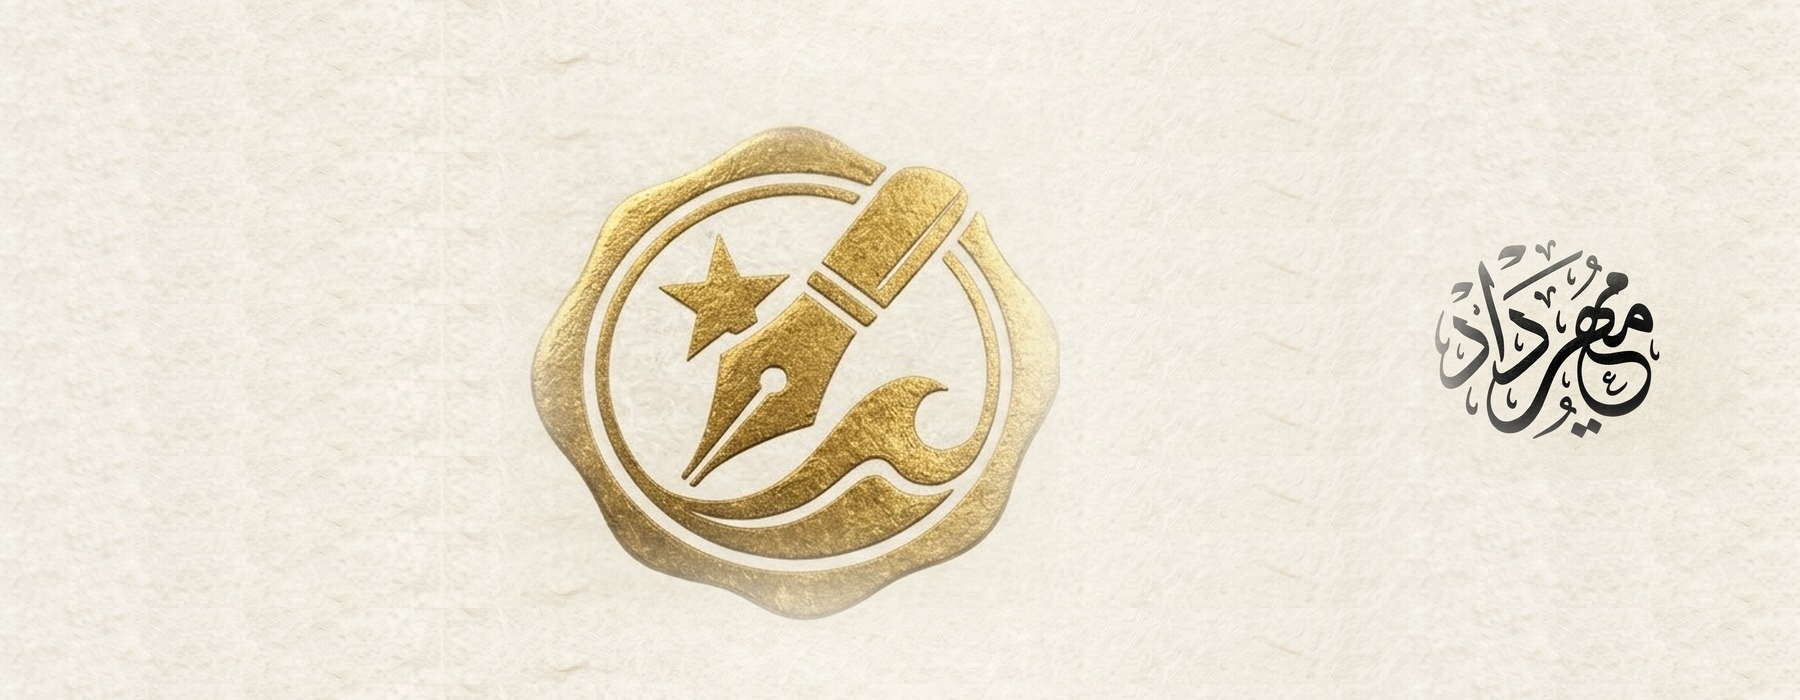
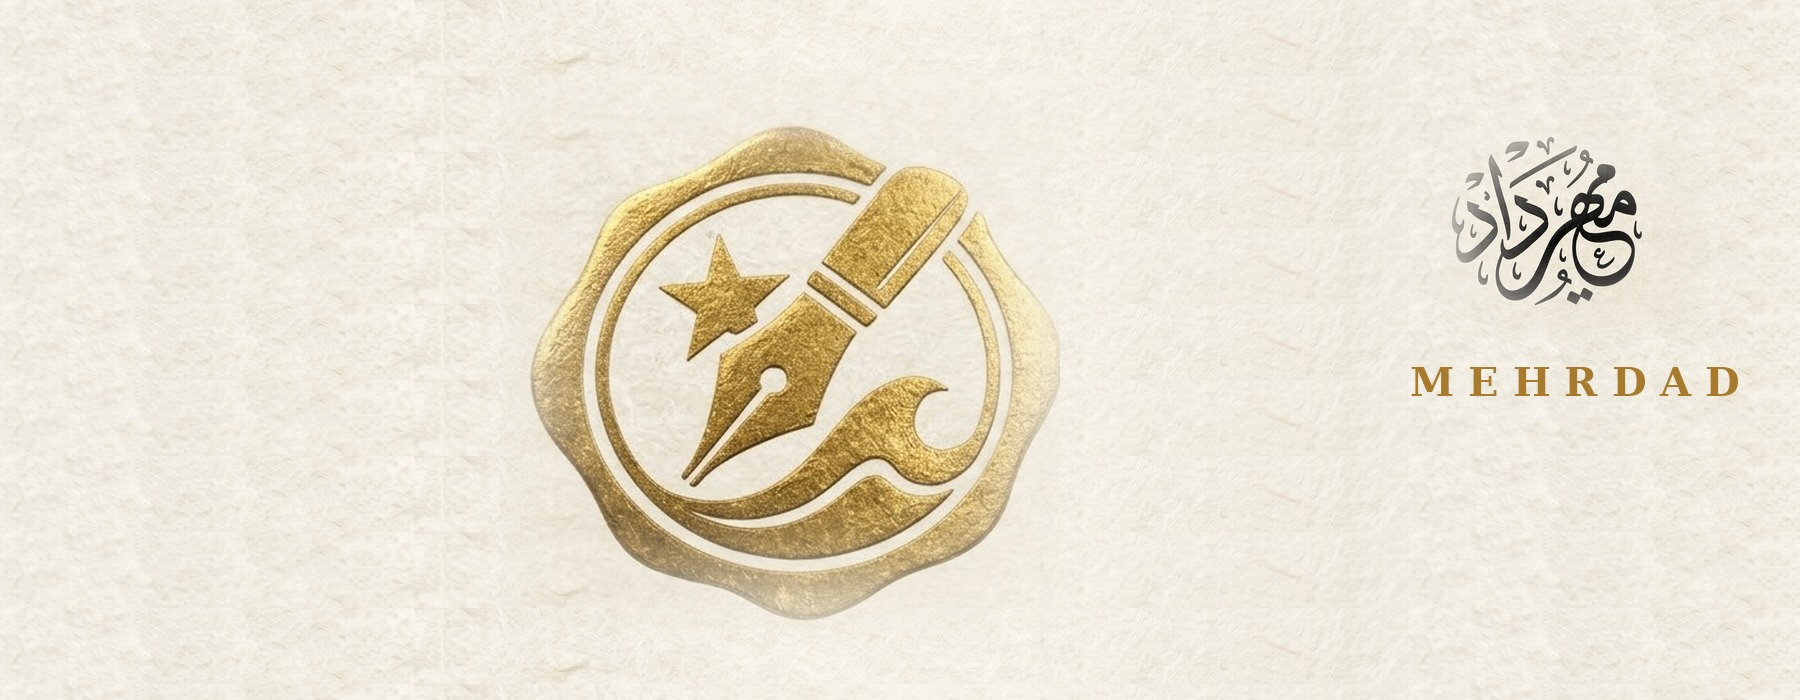
بازطراحی نوار بالا

Changed region(s): [[0.7778, 0.18, 0.9644, 0.63]]

diff --git a/public/style.css b/public/style.css
@@ -46,21 +46,25 @@ body {
 
 /* ---------- Header ---------- */
 .header {
-  border-bottom: 1px solid var(--border);
-  background: rgba(255, 255, 255, 0.85);
-  backdrop-filter: blur(16px);
-  -webkit-backdrop-filter: blur(16px);
+  border-bottom: none;
+  background: transparent;
   position: sticky;
   top: 0;
   z-index: 10;
+  padding: 16px 16px 4px;
 }
 .header-inner {
   max-width: 1100px;
   margin: 0 auto;
-  padding: 20px;
+  padding: 20px 28px;
   display: flex;
   align-items: center;
-  gap: 12px;
+  justify-content: space-between;
+  gap: 16px;
+  background: linear-gradient(160deg, #FBF5E9, #F1E4CC);
+  border: 1px solid rgba(180, 140, 60, 0.4);
+  border-radius: 24px;
+  box-shadow: 0 14px 34px rgba(0, 0, 0, 0.4), inset 0 1px 0 rgba(255, 255, 255, 0.7);
 }
 .logo-badge {
   width: 44px; height: 44px;
@@ -77,12 +81,12 @@ body {
 }
 .header-banner {
   flex: 1;
-  height: 56px;
+  height: 96px;
   width: auto;
-  max-width: 260px;
+  max-width: 460px;
   object-fit: contain;
-  border-radius: 10px;
-  box-shadow: 0 4px 16px rgba(212, 175, 90, 0.25);
+  border-radius: 0;
+  box-shadow: none;
 }
 .header-text { flex: 1; min-width: 0; }
 .header-text h1 {
@@ -326,16 +330,17 @@ textarea::placeholder, .input::placeholder { color: var(--text-dim); }
 
 .btn-outline {
   flex-shrink: 0;
-  padding: 8px 14px;
-  border-radius: 10px;
-  border: 1.5px solid var(--border-2);
-  background: var(--surface);
-  color: var(--text-muted);
-  font-family: 'JetBrains Mono', monospace;
-  font-size: 12px; font-weight: 600;
+  padding: 10px 20px;
+  border-radius: 999px;
+  border: 1px solid #B8862E;
+  background: linear-gradient(180deg, #F6DE9C, #C99A3F);
+  color: #3A2A0F;
+  font-family: 'Vazirmatn', sans-serif;
+  font-size: 13px; font-weight: 700;
   cursor: pointer;
+  box-shadow: 0 3px 10px rgba(0, 0, 0, 0.25), inset 0 1px 0 rgba(255, 255, 255, 0.6);
 }
-.btn-outline:hover { color: var(--pink-dark); border-color: var(--pink); }
+.btn-outline:hover { filter: brightness(1.05); }
 
 /* ---------- Output panel ---------- */
 .output-panel {
@@ -563,6 +568,10 @@ textarea::placeholder, .input::placeholder { color: var(--text-dim); }
 .main-grid, .col, .card, .chip-row, .output-panel { min-width: 0; }
 
 @media (max-width: 640px) {
+  .header { padding: 10px 10px 4px; }
+  .header-inner { padding: 12px 14px; border-radius: 18px; gap: 10px; }
+  .header-banner { height: 56px; max-width: 220px; }
+  .btn-outline { font-size: 12px; padding: 8px 14px; }
   .header-text h1 { font-size: 24px; }
   .header-text p { font-size: 13.5px; }
   .field-label { font-size: 12.5px; }
